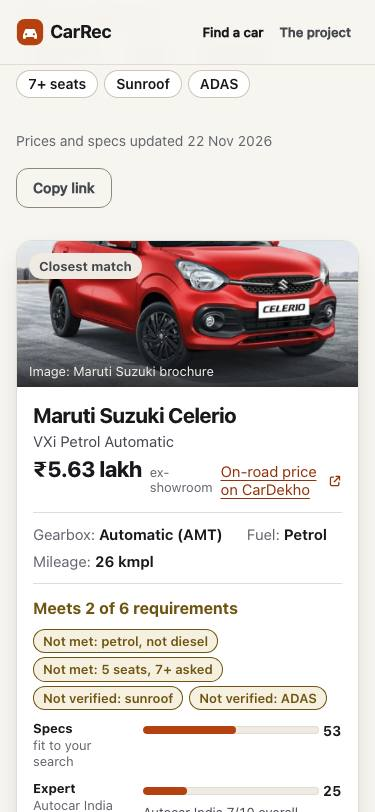
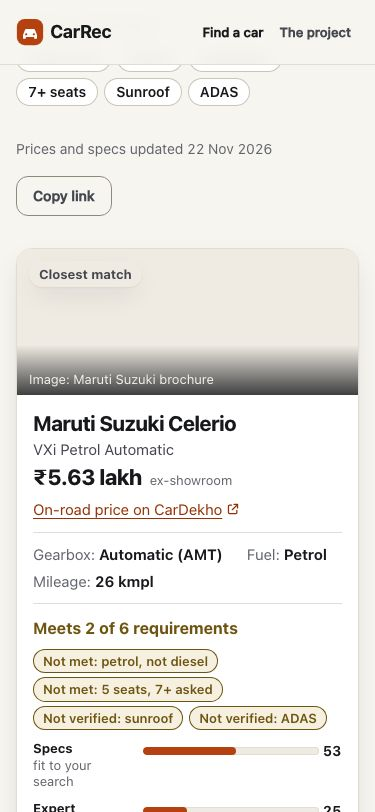
ui: on phones the CarDekho link sits on its own line under the price; mobile screenshots retaken

diff --git a/static/style.css b/static/style.css
@@ -423,9 +423,8 @@ button { cursor: pointer; }
 .car-price { text-align: right; line-height: 1.15; }
 .car-price strong { display: block; font-size: 1.375rem; letter-spacing: -0.02em; font-weight: 780; white-space: nowrap; }
 .car-price span { font-size: 0.8125rem; color: var(--ink-3); }
-.car-price .price-link { display: inline-flex; align-items: center; gap: 4px; margin-top: 6px; font-size: 0.9375rem; color: var(--accent-text); text-decoration: underline; text-underline-offset: 3px; }
+.car-price .price-link { display: flex; justify-content: flex-end; align-items: center; gap: 4px; margin-top: 6px; white-space: nowrap; font-size: 0.9375rem; color: var(--accent-text); text-decoration: underline; text-underline-offset: 3px; }
 .car-price .price-link:hover { color: var(--accent-hover); }
-.car-price .price-link { display: flex; justify-content: flex-end; }
 .price-link svg { width: 14px; height: 14px; flex: none; }
 
 .facts { display: flex; flex-wrap: wrap; gap: 4px var(--s2); padding-block: 10px; border-block: 1px solid var(--line); font-size: 0.9375rem; }
@@ -460,7 +459,8 @@ button { cursor: pointer; }
   .car-actions { grid-column: 1; }
   .car-actions .btn { width: 100%; }
   .car-head { flex-direction: column; }
-  .car-price { display: flex; align-items: baseline; gap: var(--s0); text-align: left; }
+  .car-price { display: flex; align-items: baseline; gap: var(--s0); text-align: left; flex-wrap: wrap; }
+  .car-price .price-link { flex-basis: 100%; justify-content: flex-start; margin-top: 2px; }
 }
 @media (min-width: 1024px) {
   .car { grid-template-columns: 39% minmax(0, 1fr); }
